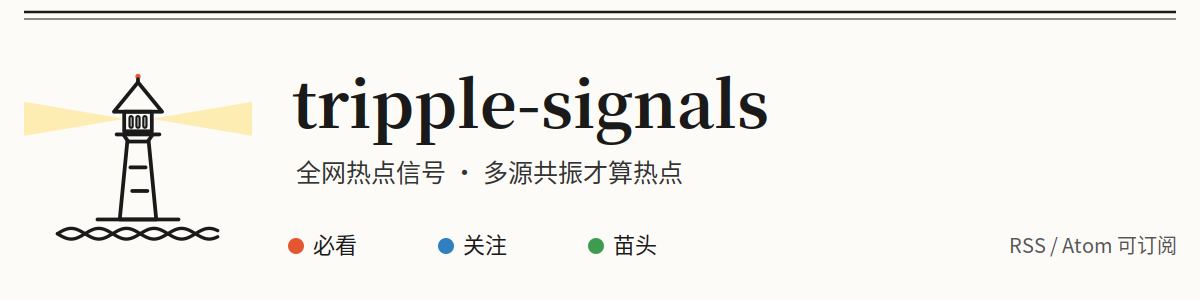
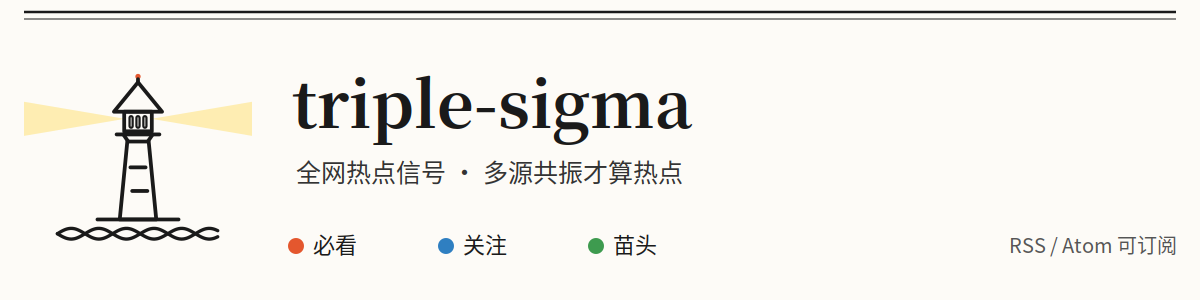
rename project to triple-sigma (0.5.1)

Changed region(s): [[0.3392, 0.24, 0.6475, 0.48]]

diff --git a/radar/publish.py b/radar/publish.py
@@ -1,4 +1,4 @@
-"""tripple-signals: static site generator (P1).
+"""triple-sigma: static site generator (P1).
 
 Reads structured editions from ``editions/YYYY-MM-DD-{pilot,morning,evening}.json``
 (the single source of truth; the chat report is rendered from the same file)
@@ -15,7 +15,7 @@ Stdlib only. Base URL defaults to the GitHub Pages address from ROADMAP.md
 and can be overridden with --base-url (changing domain later = one flag).
 
 Usage:
-    python -m radar.publish [--base-url https://example.com/tripple-signals]
+    python -m radar.publish [--base-url https://example.com/triple-sigma]
 """
 
 from __future__ import annotations
@@ -35,7 +35,7 @@ OUT_DIR = ROOT / "site"
 ASSETS_DIR = ROOT / "assets"
 # Brand files copied verbatim into the generated site root.
 BRAND_FILES = ("favicon.svg", "favicon-32.png", "apple-touch-icon.png", "banner.png")
-DEFAULT_BASE_URL = "https://daiyanze.com/tripple-signals"
+DEFAULT_BASE_URL = "https://daiyanze.github.io/triple-sigma"
 
 SLOT_ORDER = {"pilot": 0, "morning": 1, "evening": 2}
 LEVEL_LABEL = {"must": "🔥 必看", "watch": "👀 关注", "seed": "🌱 苗头"}
@@ -129,19 +129,19 @@ PAGE_TEMPLATE = """<!DOCTYPE html>
 <head>
 <meta charset="utf-8">
 <meta name="viewport" content="width=device-width, initial-scale=1">
-<title>{title} — tripple-signals</title>
+<title>{title} — triple-sigma</title>
 <link rel="icon" type="image/svg+xml" href="{asset_prefix}favicon.svg">
 <link rel="icon" type="image/png" sizes="32x32" href="{asset_prefix}favicon-32.png">
 <link rel="apple-touch-icon" href="{asset_prefix}apple-touch-icon.png">
-<meta property="og:title" content="tripple-signals">
+<meta property="og:title" content="triple-sigma">
 <meta property="og:description" content="全网热点信号 · 多源共振才算热点">
 <meta property="og:image" content="{base_url}/banner.png">
 <link rel="stylesheet" href="{css_path}">
-<link rel="alternate" type="application/rss+xml" title="tripple-signals" href="{base_url}/feed.xml">
-<link rel="alternate" type="application/atom+xml" title="tripple-signals" href="{base_url}/atom.xml">
+<link rel="alternate" type="application/rss+xml" title="triple-sigma" href="{base_url}/feed.xml">
+<link rel="alternate" type="application/atom+xml" title="triple-sigma" href="{base_url}/atom.xml">
 </head>
 <body>
-<header><h1><img src="{asset_prefix}favicon.svg" alt="" style="height:1.2em;vertical-align:-0.24em;margin-right:.3em"><a href="{base_url}/" style="color:inherit;text-decoration:none">tripple-signals</a></h1>
+<header><h1><img src="{asset_prefix}favicon.svg" alt="" style="height:1.2em;vertical-align:-0.24em;margin-right:.3em"><a href="{base_url}/" style="color:inherit;text-decoration:none">triple-sigma</a></h1>
 <p class="meta">全网热点信号 · 可用 RSS / Atom 订阅</p></header>
 <nav><a href="{base_url}/">最新一期</a> · <a href="{base_url}/archive.html">归档</a> · <a href="{base_url}/feed.xml">RSS</a> · <a href="{base_url}/atom.xml">Atom</a></nav>
 <main>
@@ -149,7 +149,7 @@ PAGE_TEMPLATE = """<!DOCTYPE html>
 <p class="meta">{published}</p>
 {body}
 </main>
-<footer>tripple-signals · 每期报告由 agent 扫描 + 判断生成；数字均带出处，未核实处如实标注。</footer>
+<footer>triple-sigma · 每期报告由 agent 扫描 + 判断生成；数字均带出处，未核实处如实标注。</footer>
 </body>
 </html>
 """
@@ -189,7 +189,7 @@ def build_rss(editions: list[dict], base_url: str) -> str:
         "<?xml version=\"1.0\" encoding=\"UTF-8\"?>\n"
         "<rss version=\"2.0\" xmlns:content=\"http://purl.org/rss/1.0/modules/content/\">\n"
         "<channel>\n"
-        "<title>tripple-signals</title>\n"
+        "<title>triple-sigma</title>\n"
         f"<link>{esc(base_url.rstrip('/'))}/</link>\n"
         "<description>全网热点信号</description>\n"
         "<language>zh-CN</language>\n" + "\n".join(items) + "\n</channel>\n</rss>\n"
@@ -215,7 +215,7 @@ def build_atom(editions: list[dict], base_url: str) -> str:
     return (
         "<?xml version=\"1.0\" encoding=\"UTF-8\"?>\n"
         "<feed xmlns=\"http://www.w3.org/2005/Atom\">\n"
-        "<title>tripple-signals</title>\n"
+        "<title>triple-sigma</title>\n"
         f"<link href=\"{esc(base_url.rstrip('/'))}/\"/>\n"
         f"<link rel=\"self\" href=\"{esc(base_url.rstrip('/'))}/atom.xml\"/>\n"
         f"<id>{esc(base_url.rstrip('/'))}/</id>\n"
@@ -277,8 +277,8 @@ def build(base_url: str, out_dir: Path = OUT_DIR,
 
 
 def main(argv: list[str] | None = None) -> int:
-    parser = argparse.ArgumentParser(description="Generate the tripple-signals static site.")
-    parser.add_argument("--base-url", default=os.environ.get("TRIPPLE_SIGNALS_BASE_URL", DEFAULT_BASE_URL))
+    parser = argparse.ArgumentParser(description="Generate the triple-sigma static site.")
+    parser.add_argument("--base-url", default=os.environ.get("TRIPLE_SIGMA_BASE_URL", DEFAULT_BASE_URL))
     parser.add_argument("--out", default=str(OUT_DIR))
     args = parser.parse_args(argv)
     written = build(args.base_url, Path(args.out))

diff --git a/tests/test_publish.py b/tests/test_publish.py
@@ -51,7 +51,7 @@ def test_build_writes_all_outputs():
     tmpdir = tempfile.mkdtemp()
     editions_dir = _write_edition(tmpdir, SAMPLE)
     out_dir = Path(tmpdir) / "site"
-    written = publish.build("https://example.com/tripple-signals", out_dir, editions_dir)
+    written = publish.build("https://example.com/triple-sigma", out_dir, editions_dir)
     names = {p.relative_to(out_dir).as_posix() for p in written}
     assert names == {
         "style.css", "index.html", "archive.html", "feed.xml", "atom.xml",
@@ -65,12 +65,12 @@ def test_feeds_parse_and_carry_full_text():
     tmpdir = tempfile.mkdtemp()
     editions_dir = _write_edition(tmpdir, SAMPLE)
     out_dir = Path(tmpdir) / "site"
-    publish.build("https://example.com/tripple-signals", out_dir, editions_dir)
+    publish.build("https://example.com/triple-sigma", out_dir, editions_dir)
     ET.parse(out_dir / "feed.xml")
     ET.parse(out_dir / "atom.xml")
     feed = (out_dir / "feed.xml").read_text(encoding="utf-8")
     assert "示例模型发布" in feed
-    assert "https://example.com/tripple-signals/editions/2026-11-12-morning.html" in feed
+    assert "https://example.com/triple-sigma/editions/2026-11-12-morning.html" in feed
     assert "&lt;brackets&gt;" in feed  # body is escaped inside CDATA, not raw HTML
 
 
@@ -80,7 +80,7 @@ def test_edition_page_has_permanent_link_and_caveat():
     edition["items"] = [dict(SAMPLE["items"][0], unverified="名字待核实。")]
     editions_dir = _write_edition(tmpdir, edition)
     out_dir = Path(tmpdir) / "site"
-    publish.build("https://example.com/tripple-signals", out_dir, editions_dir)
+    publish.build("https://example.com/triple-sigma", out_dir, editions_dir)
     page = (out_dir / "editions" / "2026-11-12-morning.html").read_text(encoding="utf-8")
     assert "未核实" in page and "名字待核实" in page
     assert "archive.html" in page

diff --git a/radar/__main__.py b/radar/__main__.py
@@ -44,12 +44,12 @@ def _run_scan(args) -> int:
     for line in scan_mod.summary_lines(report):
         print(line)
     print(f"候选文件：{report['_file']}")
-    print("下一步：把候选文件和 skills/tripple-signals/SKILL.md 交给你的 agent 出报告。")
+    print("下一步：把候选文件和 skills/triple-sigma/SKILL.md 交给你的 agent 出报告。")
     return 0
 
 
 def main(argv: list[str] | None = None) -> int:
-    parser = argparse.ArgumentParser(prog="radar", description="tripple-signals radar")
+    parser = argparse.ArgumentParser(prog="radar", description="triple-sigma radar")
     parser.add_argument("--state", default=store_mod.DEFAULT_STATE_PATH,
                         help="Path to the topic store JSON")
     parser.add_argument("--config", default=None,

diff --git a/radar/vocab.py b/radar/vocab.py
@@ -2,7 +2,7 @@
 
 Borrowed from new-term-radar's core X technique — a name only counts
 as a signal when the accounts you watch say it for the first time in
-weeks. tripple-signals has no X firehose, so the vocabulary is kept
+weeks. triple-sigma has no X firehose, so the vocabulary is kept
 over the *entity* sources, where a candidate's name is a real thing
 (a repo, a model, a tool, an app) rather than a headline: the first
 scan in which such a name appears in the candidate stream, it is

diff --git a/radar/mcp_server.py b/radar/mcp_server.py
@@ -61,7 +61,7 @@ def handle(message: dict) -> dict | None:
         return {"jsonrpc": "2.0", "id": msg_id, "result": {
             "protocolVersion": PROTOCOL_VERSION,
             "capabilities": {"tools": {}},
-            "serverInfo": {"name": "tripple-signals", "version": "0.5.0"}}}
+            "serverInfo": {"name": "triple-sigma", "version": "0.5.1"}}}
     if method == "ping":
         return {"jsonrpc": "2.0", "id": msg_id, "result": {}}
     if method == "tools/list":

diff --git a/radar/fetchers/common.py b/radar/fetchers/common.py
@@ -19,7 +19,7 @@ import json
 import urllib.request
 import xml.etree.ElementTree as ET
 
-USER_AGENT = "tripple-signals/0.5.0 (+https://github.com/daiyanze/tripple-signals)"
+USER_AGENT = "triple-sigma/0.5.1 (+https://github.com/daiyanze/triple-sigma)"
 TIMEOUT = 25
 
 ATOM = "{http://www.w3.org/2005/Atom}"

diff --git a/radar/__init__.py b/radar/__init__.py
@@ -1,3 +1,3 @@
-"""tripple-signals: web hot-topic radar."""
+"""triple-sigma: web hot-topic radar."""
 
-__version__ = "0.5.0"
+__version__ = "0.5.1"

diff --git a/skills/triple-sigma/SKILL.md b/skills/triple-sigma/SKILL.md
@@ -1,0 +1,62 @@
+---
+name: triple-sigma
+description: Run one edition (morning/evening) of the twice-daily web hot-topic radar — scan layered sources, judge signals against fixed thresholds, dedupe against the topic store, and emit the report in the fixed format.
+---
+
+# Tripple Signals — 执行指令
+
+完整方法论在仓库根目录 `methodology.md`。本文件是可执行版：照步骤跑，不要自由发挥结构。
+
+## 输入
+
+- `config.yaml`（兼容 `config.json`，都没有就用 `config.example.yaml`）：信息源、门槛、关键词、期次、时区都在里面，**不要把门槛硬编码在脑子里**。
+- `state/seen-topics.json`：话题台账。先读，再扫。
+- 期次：morning（06:00 JST，分工见 config）或 evening（18:00 JST）。
+
+## 步骤
+
+0. **先跑抓取层**：`python -m radar scan --edition <morning|evening>`（或无参 `python -m radar` 自动选期次），读它写出的 `state/candidates-<日期>-<期次>.json` 作为候选底稿；状态为 missing 的源（通常只有 X，以及当期失败的源）再用网页扫补齐，并在报告里如实标注哪些源是代码抓的、哪些是网页扫的。状态为 disabled 的源是用户在 config 里关掉的，**不算缺失、不要补扫**，报告也不必提。
+1. **按层扫源**（顺序不可颠倒，这是方法论的核心）：
+   - L1 源头层：X（Trending + config 中账号的新名字）、官方博客组（实验室一手公告）、GitHub（Trending + 爆发仓库）、Hacker News（首页/高分新帖）、Show HN（发布帖）、Hugging Face models + HF Spaces（Trending 前 50 新面孔）、OpenRouter（最新上架模型）、Civitai（最新社区模型）、arXiv（最新论文）、HF Daily Papers（社区票选论文）、Bluesky（config 账号的公开 RSS）、Product Hunt（当日新品）。
+   - L2 发酵层：Reddit（config 的版块，rising/热帖；留意 “is there a tool that…” 式需求）、科技媒体组（媒体 + 独立作者）、DEV、Lobsters、Mastodon 趋势（当日独立账号数）、Wikipedia 热读榜（大众注意力/社会观察）、目录站 sitemap 组（新工具页）、App Store 榜单（钱信号）、Google News（科技/AI 头条）。
+   - **组源计 1**：官方博客组、科技媒体组、sitemap 组在数共振时各只算一个源——组内多家转述同一件事不算共振。
+   - L3 验证层：Google Trends **只**核对已入选话题的曲线，禁止用它发现话题。
+   - 某个源查不到：记入报告「本期缺失」，禁止用其他源内容冒充。
+2. **判定信号**（用 config 的门槛）：
+   - 候选文件已过用户控制层：屏蔽词命中的已被代码丢弃（`controls.muted` 是丢弃数）；带 `keyword_hits.alert` 的候选汇在 `keyword_alerts` 里，带 `keyword_hits.boost` 的是用户关注词命中，带 `topic_hits` 的附主题权重——分级时按下面第 3 步用。
+   - 带 `"novel": true` 的候选（0.5.0）：实体型源里这个名字在词汇表窗口（默认 60 天）内第一次出现，是优先级最高的苗头信号，单源也优先核查；候选文件顶层 `vocab` 字段是本轮统计（`baseline: true` 表示第一次运行只建了基线、本轮无 novel 可用）。目录站 sitemap 组已改快照 diff：条目都是上次扫描后新收录的页，不会重复出现；某个目录第一次运行只建基线（note 里会写），不出条目是正常现象。
+   - 同一话题 ≥ `min_sources_for_hotspot` 个独立源 = 热点候选；单源 = 苗头。
+   - GitHub：年龄与 stars 增速按 config 的 github 规则；X：按 config 的 x 规则；HN/Reddit：进首页/rising 前列。
+   - 只保留「具体的新东西」（新模型/产品/仓库/事件名）；泛词（dashboard、pricing 之类）一律丢弃。
+3. **打分分级**：共振度、增速（对比台账里上次等级）、新鲜度、相关性（按 config `topics` 的权重，候选的 `topic_hits` 已算好）→ 🔥必看 / 👀关注 / 🌱苗头。用户控制的升降级：`alert` 命中且有第二源共振 → 直接列 🔥必看候选；`boost` 命中的单源话题可由 🌱升为 👀。全期最多 `max_items_per_report` 条，苗头最多 `max_seedlings` 条。
+4. **去重**：台账里已有的话题不重复介绍背景，只报状态变化（升级/降温/消亡）；新话题标 🆕。
+5. **写回状态**：每条入选话题用 `radar/store.py` 的 `upsert_topic` 更新台账（首次发现时间、来源、等级轨迹）。
+6. **出报告**：严格用下方模板。每个数字必须带出处；禁止「爆火」「刷屏」等无量词形容；建议动作只给判断，不替用户做决定。
+
+## 报告模板
+
+```
+📰 热点雷达 · {早报|晚报} {YYYY-MM-DD} {HH:MM} JST
+
+🔥 必看（n 条）
+1. {话题一句话} — {为什么热，带关键数字}
+   来源：{源列表}（附链接）
+   建议动作：写 tweet / 深入研究 / 立项观察 / 仅记录
+
+👀 关注（n 条）
+（同上格式）
+
+🌱 苗头（n 条）
+- {话题} — {单源信号一句话}
+
+📈 今日变化（仅晚报）
+- {老话题}：{涨/平/凉 + 依据}
+
+⚠ 本期缺失：{查不到的源，没有就写「无」}
+```
+
+## 红线
+
+- 只读公开信息；不发帖、不点赞、不互动。
+- 不编造数字、链接、账号动态；没查到就写缺失。
+- 不改 `config.json` 和门槛来「凑」结果；觉得门槛不合理，在报告末尾提一句建议即可。

diff --git a/README.md b/README.md
@@ -1,6 +1,6 @@
-![tripple-signals · 全网热点信号](assets/banner.png)
+![triple-sigma · 全网热点信号](assets/banner.png)
 
-# tripple-signals
+# triple-sigma
 
 全网热点雷达：在热点到达大众搜索之前，从源头层抓到它。扫描频度由使用者自行定义，程序也可自行发现并更新。
 
@@ -8,7 +8,7 @@
 
 | 层 | 文件 | 作用 |
 |---|---|---|
-| 指令 | `skills/tripple-signals/SKILL.md` | agent 照着跑的执行步骤、判定规则、报告模板 |
+| 指令 | `skills/triple-sigma/SKILL.md` | agent 照着跑的执行步骤、判定规则、报告模板 |
 | 配置 | `config.example.yaml` | 信息源清单、量化门槛、关键词、时区与期次——调参只动这里（YAML，JSON 兼容） |
 | 工具 | `radar/` | 确定性工作交给代码：状态存储、去重、14 天复盘（抓取器见路线图） |
 | 状态 | `state/seen-topics.json` | 话题台账（机器版）；`seen-topics.md` 是给人看的视图 |
@@ -21,7 +21,7 @@
 python -m radar        # 一键扫描：按本地时间自动选期次，跑全部源，写候选文件
 ```
 
-就这一条命令（零依赖，不用先装任何东西）。候选文件出来后，把它和 `skills/tripple-signals/SKILL.md` 交给你的 agent 出报告。其他用法：
+就这一条命令（零依赖，不用先装任何东西）。候选文件出来后，把它和 `skills/triple-sigma/SKILL.md` 交给你的 agent 出报告。其他用法：
 
 ```bash
 cp config.example.yaml config.yaml   # 按需改源、门槛和关键词，config.yaml 不进 git
@@ -33,7 +33,7 @@ python -m pytest -q tests            # 逻辑测试，不碰网络
 
 配置是 **YAML**（`config.yaml`；装了 PyYAML 用完整语法，没装时内置子集解析器，仅标准库也能跑），旧的 `config.json` 照常兼容，加载顺序：`config.yaml > config.yml > config.json > config.example.*`。
 
-给 agent 用：把 `skills/tripple-signals/` 装进你的 agent（Claude Code / Codex 等），或直接让 agent 读 SKILL.md 按步骤执行。定时运行有两种方式：
+给 agent 用：把 `skills/triple-sigma/` 装进你的 agent（Claude Code / Codex 等），或直接让 agent 读 SKILL.md 按步骤执行。定时运行有两种方式：
 
 - 本机/常驻 agent：用 agent 自己的调度（如 Muse 的 cron），早晚各一次——当前 Dai 的实际运行方式。
 - GitHub Actions：`.github/workflows/radar.yml` 已备好骨架，设仓库变量 `RADAR_ENABLED=true` 后生效（需要先补上抓取层，见路线图）。

diff --git a/ROADMAP.md b/ROADMAP.md
@@ -26,7 +26,7 @@ agent 扫描（现有早晚两次运行）
 1. **托管先用 GitHub Pages**：仓库已在 GitHub、Actions 已有骨架、零新增账号零成本；产物是纯静态文件，将来迁 Cloudflare Pages 只是换部署目标，内容不用动。Cloudflare 的优势（CDN 速度、边缘能力）在这个体量用不上。
 2. **生成器自己写，不用 Hugo/Jekyll**：全仓库只有 Python 一门语言，`radar/publish.py` 读期次文件 + 模板出 HTML 和 feed，几百行可控；不引入第二套工具链。
 3. **feed 出两份**：RSS 2.0 兼容性最好，Atom 规范更干净，成本只是多一个模板。每期一个条目，`guid` 用期次日期+早晚，永久不变；正文全文放进 `content:encoded` / Atom `content`。
-4. **站点 URL 先用默认域名** `daiyanze.github.io/tripple-signals`；自定义域名（如 signals.grant-dai.com）等有读者再绑，GitHub Pages 支持随时加，feed 里用配置项 `base_url` 生成绝对链接，换域名只改一处配置。
+4. **站点 URL 先用默认域名** `daiyanze.github.io/triple-sigma`；自定义域名（如 signals.grant-dai.com）等有读者再绑，GitHub Pages 支持随时加，feed 里用配置项 `base_url` 生成绝对链接，换域名只改一处配置。
 
 ## 分阶段
 

diff --git a/CHANGELOG.md b/CHANGELOG.md
@@ -1,5 +1,10 @@
 # Changelog
 
+## 0.5.1 — 2026-11-13
+
+- 项目改名 **tripple-signals → triple-sigma**（仓库由 Dai 在 GitHub Settings 改名，旧地址自动重定向；token 按仓库 ID 授权，不受影响）：仓库内全部标识同步更换——README/ROADMAP、plugin 与技能目录 `skills/triple-sigma`、MCP server 名、抓取器 User-Agent、pyproject 包名、横幅 SVG/PNG 的字标、站点标题与 feed 标题。历史条目与期次内容不改。
+- 站点 canonical 地址改回 `https://daiyanze.github.io/triple-sigma`：daiyanze.com 的 DNS 在 Cloudflare（个人站），GitHub 账号侧残留的同名自定义域名配置会把 github.io 的访问重定向过去并 404；该残留配置的清理（或改用子域名）待 Dai 决定，见仓库设置说明。
+
 ## 0.5.0 — 2026-11-13
 
 继续借鉴 new-term-radar 还没借的三件（其付费部分——AIsa 链接图谱、DataForSEO 关键词量——不借）：
